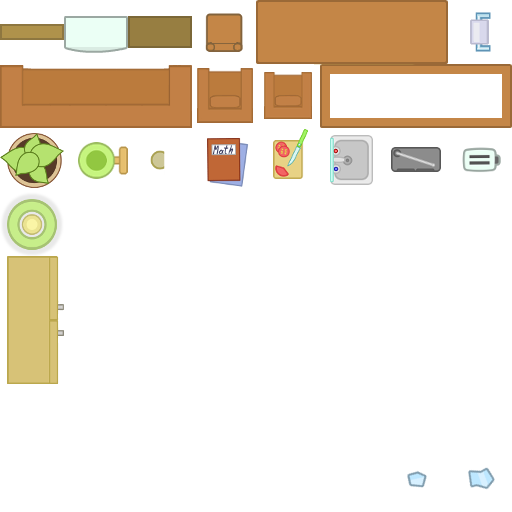
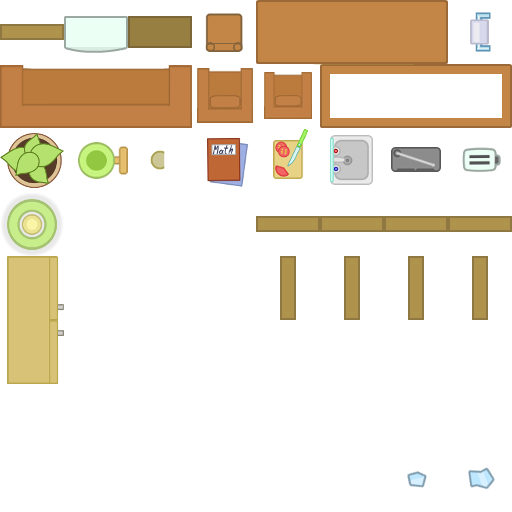
Added multiple textures for doors.

diff --git a/src/render/entity/EntityStaticRender.h b/src/render/entity/EntityStaticRender.h
@@ -19,8 +19,9 @@ protected:
     virtual int getTexPos(const Entity *const entity) override {
         int texPos = -1;
         //TODO (?) could use some strategy here, trying not to create another render though
-        if (const EntityFurniture *const f = dynamic_cast<const EntityFurniture *const>(entity)) texPos = f->getTexId();
+        if (const EntityDoor *const d = dynamic_cast<const EntityDoor *const>(entity)) texPos = 28 + 8 * ((d->getType() >> 7) & 1);
         else if (const EntityGlassDebris *const d = dynamic_cast<const EntityGlassDebris *const>(entity)) texPos = 62 + d->getType();
+        else if (const EntityFurniture *const f = dynamic_cast<const EntityFurniture *const>(entity)) texPos = f->getTexId();
         return texPos;
     };
 };
